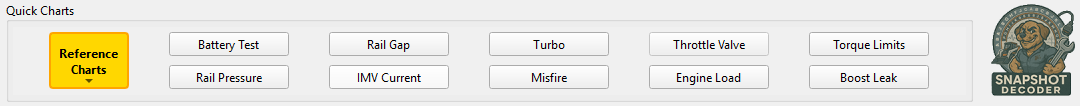
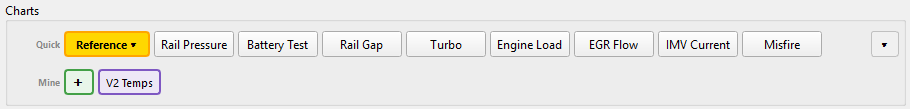
update help for MyCharts

diff --git a/data/help/quick_charts.html b/data/help/quick_charts.html
@@ -1,4 +1,4 @@
-<!DOCTYPE html>
+<!DOCTYPE html>
 <html>
 <head>
     <link rel="stylesheet" href="styles.css">
@@ -7,23 +7,46 @@
 </head>
 <body>
     <h1>Quick Charts</h1>
-    
-    <p>Quick Charts provide instant access to the most commonly needed diagnostic views. These pre-configured charts are designed based on real-world diagnostic experience and focus on the parameters that matter most when troubleshooting engine issues.</p>
-    
+
+    <p>Quick Charts provide instant access to the most commonly needed diagnostic views. These pre-configured charts are designed based on real-world diagnostic experience and focus on the parameters that matter most when troubleshooting engine issues. Alongside the built-in charts sits <strong>My Charts</strong> &ndash; your own saved chart templates &ndash; and both rows quietly reorder themselves over time to put the charts you actually use front and center.</p>
+
     <img src="../images/quick_charts.png" alt="Quick Charts panel" style="max-width: 1000px;">
-    
+
     <h2>Purpose of Quick Charts</h2>
     <p>Quick Charts eliminate the need to manually select PIDs and configure axes for common diagnostic scenarios. Instead of searching through hundreds of parameters, you can instantly view the most relevant data for specific diagnostic tasks.</p>
-    
+
     <div class="info">
-        <strong>Diagnostic Experience:</strong> The Quick Charts available in Snapshot Decoder are based on years of pragmatic diagnostic work experience. 
-        Each chart focuses on the specific parameters and relationships that experienced technicians look at first when diagnosing particular issues. 
+        <strong>Diagnostic Experience:</strong> The Quick Charts available in Snapshot Decoder are based on years of pragmatic diagnostic work experience.
+        Each chart focuses on the specific parameters and relationships that experienced technicians look at first when diagnosing particular issues.
         This saves time and ensures you're looking at the right data to identify problems quickly.
     </div>
-    
+
+    <h2>The Charts Panel</h2>
+    <p>The Charts panel sits at the top of the main window and is organized into two labelled rows:</p>
+
+    <table>
+        <tr><th>Row</th><th>Contents</th></tr>
+        <tr>
+            <td><strong>Quick</strong></td>
+            <td>The built-in diagnostic charts described below. When a snapshot type has reference
+                charts available, a gold <strong>Reference &#9662;</strong> button is pinned at the
+                left of this row.</td>
+        </tr>
+        <tr>
+            <td><strong>Mine</strong></td>
+            <td>Your own saved <strong>My Charts</strong> (see below), led by a green
+                <strong>&#65291;</strong> tile for saving the chart currently on the canvas.</td>
+        </tr>
+    </table>
+
+    <p>Both rows stay a fixed height no matter how many charts they hold. If there are more charts
+    than fit the width of the window, the extras fold into a trailing <strong>&#9662;</strong>
+    (&ldquo;More charts&rdquo;) menu at the end of the row instead of wrapping or scrolling &ndash;
+    click it to see everything that didn't fit.</p>
+
     <h2>Available Quick Charts</h2>
     <p>The Quick Charts available depend on the snapshot type that is loaded. Snapshot Decoder automatically detects your snapshot format and displays only the relevant charts for that engine type.</p>
-    
+
     <h3>Common Quick Charts</h3>
     <ul>
         <li><strong>Battery Voltage</strong> - Evaluate electrical system health during cranking and running</li>
@@ -34,31 +57,91 @@
         <li><strong>Cam/Crank</strong> - Monitor camshaft and crankshaft status for engine starting</li>
         <li><strong>Engine Use Data</strong> - Review operating conditions, speed bands, elevation, and exhaust temperatures</li>
     </ul>
-    
+
     <h2>Using Quick Charts</h2>
     <p>To open a Quick Chart:</p>
     <ol>
         <li>Load a snapshot file</li>
-        <li>Locate the Quick Charts panel at the top of the main window</li>
-        <li>Click on any available Quick Chart button</li>
+        <li>Locate the Charts panel at the top of the main window</li>
+        <li>Click on any available chart button in the <strong>Quick</strong> row (or the
+            <strong>&#9662;</strong> menu if it isn't showing)</li>
         <li>The chart opens immediately with pre-configured parameters and axes</li>
     </ol>
-    
-    <h2>Benefits of Quick Charts</h2>
+
+    <!-- ─────────────────────────────────────────────────── -->
+    <h2 id="rearranging">Charts Rearrange Themselves By Use</h2>
+    <p>Snapshot Decoder quietly keeps a click count for every chart &ndash; built-in Quick Charts and
+    your own My Charts alike &ndash; and uses it to order each row. The chart you open most often sits
+    leftmost; charts you rarely touch drift toward the end of the row and eventually into the
+    <strong>&#9662;</strong> overflow menu. If two charts have the same click count, they fall back to
+    their normal declared order, so a brand-new install (with no usage history yet) shows every chart
+    in exactly the order it always has.</p>
+
+    <div class="tip">
+        <strong>Tip:</strong> Re-sorting only happens the <em>next</em> time a snapshot is loaded or the
+        panel is rebuilt &ndash; not the instant you click a button. That way the row you're looking at
+        never shifts out from under your cursor mid-session.
+    </div>
+
+    <p>This personalization builds up automatically the more you use Snapshot Decoder; there's nothing
+    to configure. Your most-used diagnostic views simply become the fastest ones to reach.</p>
+
+    <!-- ─────────────────────────────────────────────────── -->
+    <h2 id="mycharts">My Charts &ndash; Save Your Own Custom Charts</h2>
+    <p><strong>My Charts</strong> is the <strong>Mine</strong> row of the Charts panel, right below
+    the built-in Quick Charts. It lets you turn any combination of PIDs and axis settings you've built
+    on the chart canvas into a chart you can reopen with one click, without touching the PID Descriptions
+    panel again.</p>
+
+    <h3>Saving a Chart</h3>
+    <ol>
+        <li>Select the PIDs you want on the left/right axis and adjust the axis ranges as needed</li>
+        <li>Click the green <strong>&#65291;</strong> tile at the start of the <strong>Mine</strong> row</li>
+        <li>Enter a name for the chart in the <strong>Save as My Chart</strong> prompt</li>
+        <li>The chart appears as a new button in the <strong>Mine</strong> row and can be reopened any time</li>
+    </ol>
+    <p>Chart names must be unique &ndash; if a name is already used by a built-in chart or another My
+    Chart, you'll be asked to pick a different one. If you reopen an existing My Chart, change its PIDs
+    or axes, and click <strong>&#65291;</strong> again, Snapshot Decoder asks whether to <strong>update</strong>
+    the existing chart with your changes or <strong>save it as a new one</strong>.</p>
+
+    <h3>Managing a My Chart</h3>
+    <p>Right-click any chart button in the <strong>Mine</strong> row to <strong>Edit</strong>
+    (load it back onto the canvas so you can adjust it), <strong>Duplicate</strong> (create a copy to
+    tweak without touching the original), or <strong>Delete</strong> it. Deleting asks for confirmation
+    first, since it can't be undone.</p>
+
+    <h3>My Charts Are Specific to the Snapshot Type</h3>
+    <p>Every My Chart remembers which engine/snapshot type was loaded when you saved it &ndash; for
+    example a V1 Engine (ECU) snapshot versus a V2 Engine (ECU) snapshot, or an Engine Use Data snapshot.
+    A My Chart only appears in the <strong>Mine</strong> row when that same type of snapshot is loaded
+    again. This keeps the row relevant and uncluttered: a chart built around PIDs from one system won't
+    show up &ndash; and won't confuse you with missing data &ndash; when you're looking at a different
+    engine or system type.</p>
+
+    <div class="info">
+        <strong>Note:</strong> Your My Charts are saved on your computer and carry over between snapshot
+        files of the same type. If a My Chart references a PID that happens to be missing from the
+        specific snapshot you have open, its button is greyed out rather than hidden, so you know it
+        exists but has nothing to plot for this file.
+    </div>
+
+    <h2>Benefits of Quick Charts and My Charts</h2>
     <ul>
         <li><strong>Speed</strong> - Access critical diagnostic views with a single click</li>
         <li><strong>Consistency</strong> - Always view the same parameters for repeatable diagnostics</li>
-        <li><strong>Experience-Based</strong> - Focus on what matters based on real diagnostic scenarios</li>
+        <li><strong>Experience-Based</strong> - Built-in charts focus on what matters based on real diagnostic scenarios</li>
         <li><strong>No Configuration</strong> - Pre-configured axes and scales for optimal viewing</li>
-        <li><strong>Snapshot-Specific</strong> - Only shows charts relevant to your engine type</li>
+        <li><strong>Snapshot-Specific</strong> - Both rows only show charts relevant to your engine/snapshot type</li>
+        <li><strong>Personalized</strong> - The charts you rely on most rise to the front of each row over time</li>
+        <li><strong>Reusable</strong> - Save your own PID combinations once as a My Chart instead of rebuilding them every time</li>
     </ul>
-    
-    <h2>Customization</h2>
-    <p>While Quick Charts provide instant access to common views, you can still create custom charts using the PID Descriptions panel if you need to analyze specific parameter combinations not covered by the Quick Charts.</p>
-    
-    <div class="info">
-        <strong>Tip:</strong> Start with Quick Charts for initial diagnostics, then use custom charts to dive deeper into specific issues you identify.
+
+    <div class="tip">
+        <strong>Tip:</strong> Start with the built-in Quick Charts for initial diagnostics. When you find
+        yourself rebuilding the same custom combination of PIDs, save it as a My Chart with the
+        <strong>&#65291;</strong> tile so it's one click away next time you load that type of snapshot.
     </div>
-    
+
 </body>
 </html>
